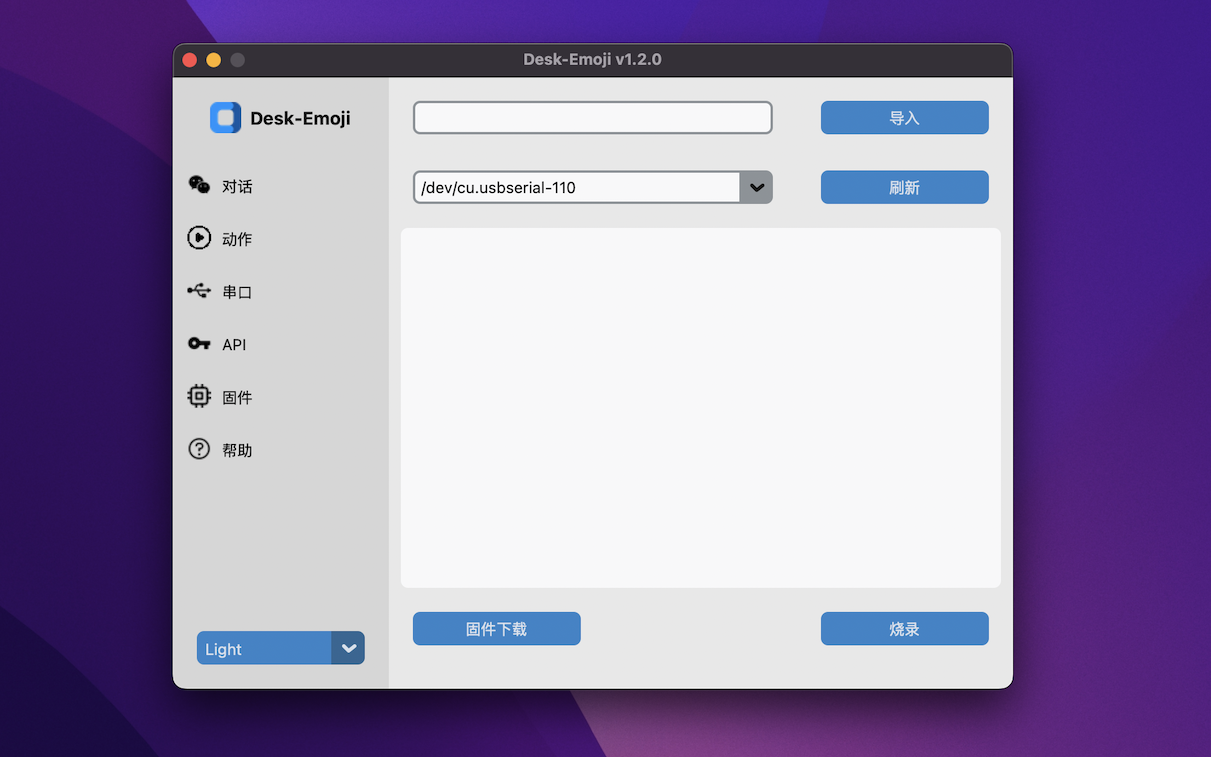
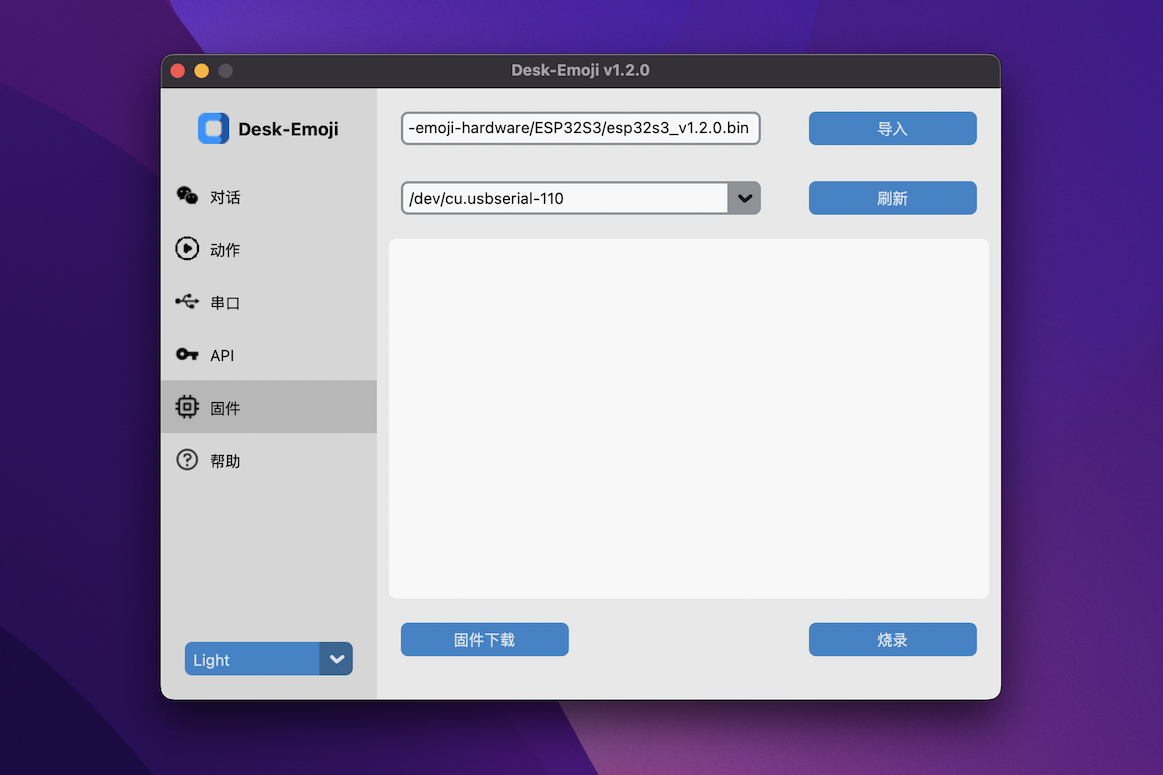
modified:   README.md 	modified:   doc/en/software_manual.md 	modified:   doc/image/software_manual/1731337605099.png 	modified:   doc/image/software_manual/1732460764804.png 	modified:   "doc/zh/\350\275\257\344\273\266\346\211\213\345\206\214.md" 	modified:   main.py

Changed region(s): [[0.1238, 0.0, 0.8977, 1.0], [0.3405, 0.79, 0.4953, 0.8507]]

diff --git a/main.py b/main.py
@@ -251,15 +251,15 @@ class App(ctk.CTk):
         self.firmware_frame.grid_columnconfigure(0, weight=1)
         self.firmware_frame.grid_columnconfigure(0, weight=0)
 
-        self.file_entry = ctk.CTkEntry(self.firmware_frame, width=300)
-        self.file_entry.grid(row=0, column=0, padx=20, pady=20, sticky="w")
-        self.import_button = ctk.CTkButton(self.firmware_frame, text="导入", command=self.import_firmware)
-        self.import_button.grid(row=0, column=1, padx=20, pady=20, sticky="e")
+        self.firmware_entry = ctk.CTkEntry(self.firmware_frame, width=300)
+        self.firmware_entry.grid(row=0, column=0, padx=20, pady=20, sticky="w")
+        self.firmware_import_button = ctk.CTkButton(self.firmware_frame, text="导入", command=self.import_firmware)
+        self.firmware_import_button.grid(row=0, column=1, padx=20, pady=20, sticky="e")
 
         self.serial_combobox = ctk.CTkComboBox(self.firmware_frame, width=300, values=ser.list_ports())
         self.serial_combobox.grid(row=1, column=0, padx=20, pady=10, sticky="w")
-        self.refresh_serial_button = ctk.CTkButton(self.firmware_frame, text="刷新", command=ser.list_ports())
-        self.refresh_serial_button.grid(row=1, column=1, padx=20, pady=10, sticky="e")
+        self.ser_refresh_button = ctk.CTkButton(self.firmware_frame, text="刷新", command=self.ser_refresh_button_event)
+        self.ser_refresh_button.grid(row=1, column=1, padx=20, pady=10, sticky="e")
 
         self.terminal_textbox = ctk.CTkTextbox(self.firmware_frame, width=500, height=300)
         self.terminal_textbox.grid(row=2, column=0, columnspan=2, padx=10, pady=10, sticky="nsew")
@@ -323,6 +323,7 @@ class App(ctk.CTk):
         self.act_button.configure(fg_color=("gray75", "gray25") if name == "act" else "transparent")
         self.connect_button.configure(fg_color=("gray75", "gray25") if name == "connect" else "transparent")
         self.api_button.configure(fg_color=("gray75", "gray25") if name == "api" else "transparent")
+        self.firmware_button.configure(fg_color=("gray75", "gray25") if name == "firmware" else "transparent")
         self.help_button.configure(fg_color=("gray75", "gray25") if name == "help" else "transparent")
 
         if name == "chat":
@@ -367,12 +368,11 @@ class App(ctk.CTk):
 
     def blt_refresh_button_event(self):
         devices = blt.list_devices()
-        if not devices:
-            self.blt_flag_label.configure(text="无可用设备", text_color="red")
-            return
-        self.blt_combobox.configure(values=devices)
         if devices:
+            self.blt_combobox.configure(values=devices)
             self.blt_combobox.set(devices[0])
+        else:
+            self.blt_flag_label.configure(text="无可用设备", text_color="red")
 
     def blt_connect_button_event(self):
         device_address = self.blt_combobox.get()
@@ -387,12 +387,11 @@ class App(ctk.CTk):
 
     def usb_refresh_button_event(self):
         ports = ser.list_ports()
-        if not ports:
-            self.usb_flag_label.configure(text="无可用设备", text_color="red")
-            return
-        self.usb_combobox.configure(values=ports)
         if ports:
+            self.usb_combobox.configure(values=ports)
             self.usb_combobox.set(ports[0])
+        else:
+            self.usb_flag_label.configure(text="无可用设备", text_color="red")
 
     def usb_connect_button_event(self):
         port = self.usb_combobox.get()
@@ -419,6 +418,12 @@ class App(ctk.CTk):
 
     def firmware_button_event(self):
         self.select_frame_by_name("firmware")
+
+    def ser_refresh_button_event(self):
+        ports = ser.list_ports()
+        if ports:
+            self.serial_combobox.configure(values=ports)
+            self.serial_combobox.set(ports[0])
 
     def help_button_event(self):
         self.select_frame_by_name("help")
@@ -481,8 +486,8 @@ class App(ctk.CTk):
         file_path = tk.filedialog.askopenfilename(filetypes=[("Binary Files", "*.bin")])
         if file_path:
             self.firmware = file_path
-            self.file_entry.delete(0, "end")
-            self.file_entry.insert(0, self.firmware)
+            self.firmware_entry.delete(0, "end")
+            self.firmware_entry.insert(0, self.firmware)
 
     def burn_firmware(self):
         if not self.firmware:

diff --git a/doc/en/software_manual.md b/doc/en/software_manual.md
@@ -7,7 +7,7 @@
 
 ## Usage
 
-* Set serial port first: Select Bluetooth or USB -> click the "Scan" button -> select the right device -> click the "Connect" button.
+* Set serial port first: Select Bluetooth or USB -> click the "Refresh" button -> select the right device -> click the "Connect" button.
   ![1731337605099](../image/software_manual/1731337605099.png)
 * Set API url and key. (should support GPT-4o-mini)
   ![1731337596886](../image/software_manual/1731337596886.png)

diff --git a/doc/zh/软件手册.md b/doc/zh/软件手册.md
@@ -7,7 +7,7 @@
 
 ## 使用
 
-* 首先设置串口：选择蓝牙或USB，点击“扫描”按钮，选择对应的设备，然后点击“连接”
+* 首先设置串口：选择蓝牙或USB，点击“刷新”按钮，选择对应的设备，然后点击“连接”
   ![1731337605099](../image/software_manual/1731337605099.png)
 * 设置 API 网址和密钥（需要支持GPT-4o-mini）
   ![1731337596886](../image/software_manual/1731337596886.png)

diff --git a/README.md b/README.md
@@ -4,8 +4,6 @@ Desk-Emoji is a truly open-source AI desktop robot featuring an emoji screen, a 
 
 ![img](images/photo.jpg "photo")
 
-More details in doc/en/ folder.
-
 ## Resource
 
 * [Attention!](doc/en/attention.md)
